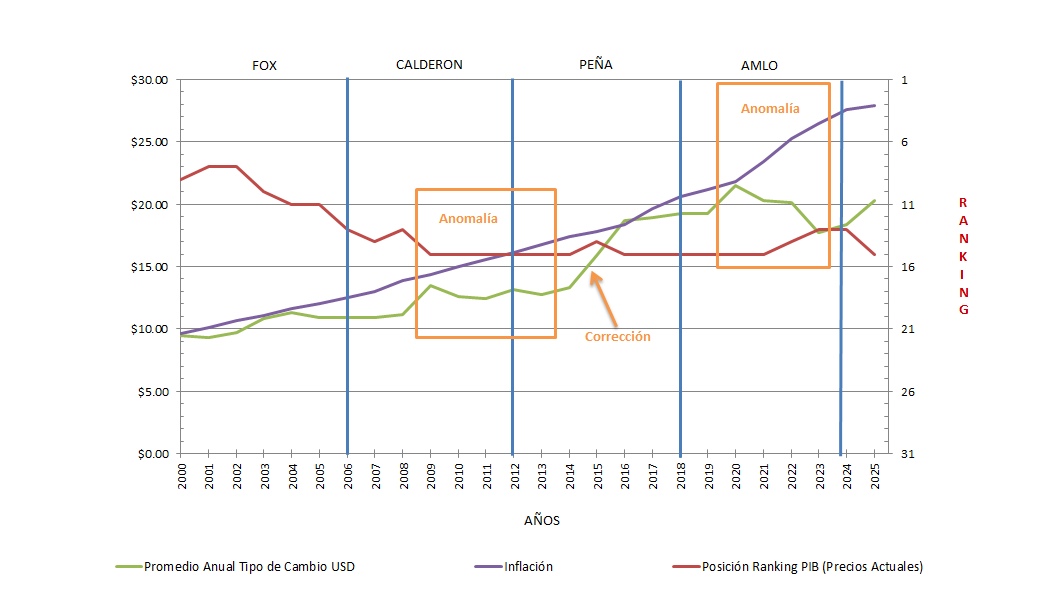
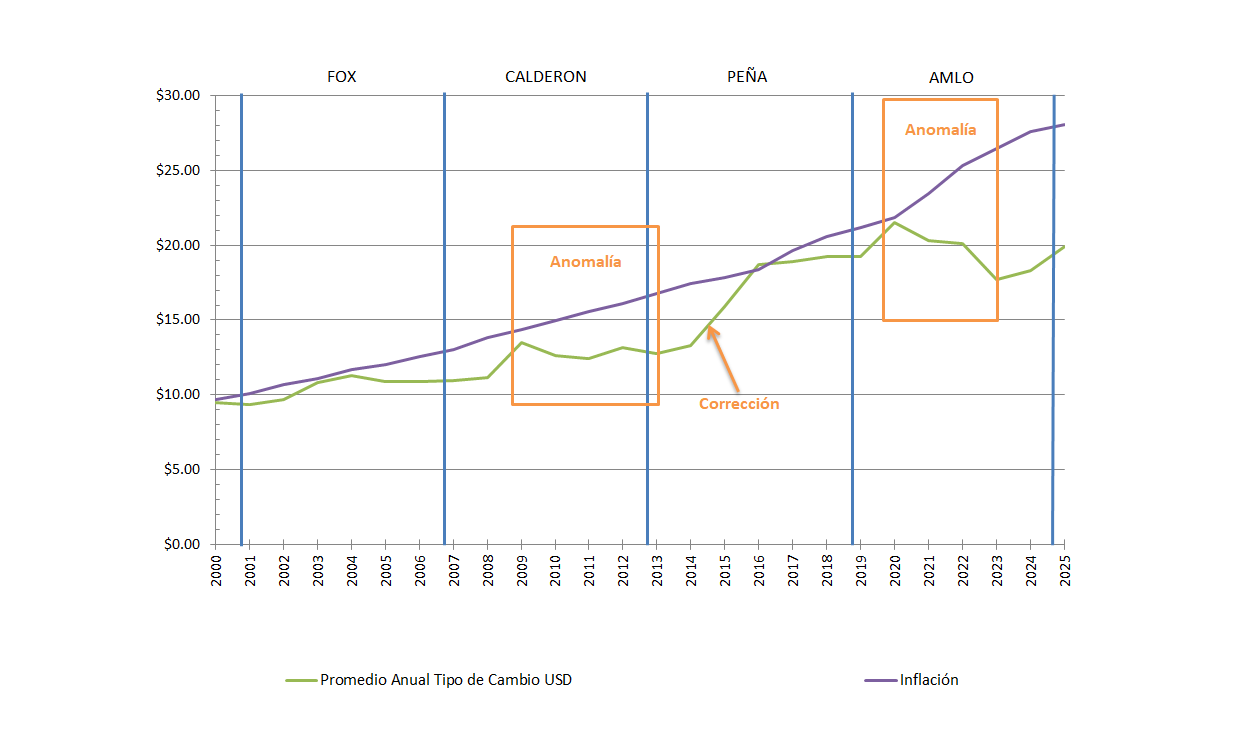
Add files via upload

diff --git a/index.html b/index.html
@@ -51,6 +51,92 @@
             
             <div id="contenedor-publicaciones">
 
+                <div class="publicacion" data-categoria="inflacion">
+                    <!-- H2 movido aquí adentro -->
+                    <h2>Inflación en México: Comparativa por Sexenio</h2>
+
+                    <p class="fecha-publicacion">Actualizado el: 09 de Julio de 2025</p>
+
+                    <p>
+		    La inflación es uno de los indicadores económicos más relevantes para medir el <strong>aumento generalizado y sostenido de los 
+		    precios</strong> de bienes y servicios en México. En términos simples, refleja cómo el dinero se devalúa o pierde su poder de compra con 
+		    el tiempo. Analizar su comportamiento por sexenio permite entender cómo factores internos y crisis internacionales han impactado el 
+		    poder adquisitivo de la población y la estabilidad económica del país. En esta sección encontrarás una comparativa de la 
+		    inflación acumulada durante los últimos gobiernos, acompañada del contexto de los principales eventos globales que influyeron en cada periodo.
+                    </p>
+                    <br>
+                    <table>
+                    <caption>Inflación Acumulada por Sexenio</caption>
+                    <tr>
+                        <th>PRESIDENTE</th>
+                        <th>PERIODO</th>
+                        <th>INFLACION ACUMULADA EN SEXENIO<sup>[1]</sup></th>
+                        <th>CRISIS INTERNACIONALES</th>
+                    </tr>
+                    <tr>
+                        <td>Fox</td>
+                        <td>Dic 2000 - Nov 2006</td>
+                        <td>29.03%</td>
+                        <td>Crisis de las Punto Com (2001)<br>Los USA estuvieron 8 meses en recesión económica</td>
+                    </tr>
+                    <tr>
+                        <td>Calderón</td>
+                        <td>Dic 2006 - Nov 2012</td>
+                        <td>28.22%</td>
+                        <td>Gran Recesión (2008)<br>Los USA estuvieron 19 meses en recesión económica</td>
+                    </tr>
+                    <tr>
+                        <td>Peña</td>
+                        <td>Dic 2012 - Nov 2018</td>
+                        <td>26.98%</td>
+                        <td></td>
+                    </tr>
+                    <tr>
+                        <td>AMLO</td>
+                        <td>Dic 2018 - Sep 2024</td>
+                        <td>32.09%</td>
+                        <td>Pandemia Covid-19 (2020)<br>Los USA estuvieron 3 meses en recesión económica</td>
+                    </tr>
+                    <tr>
+                        <td>Sheinbaum<br>(Parcial: 9 meses de gobierno)</td>
+                        <td>Oct 2024 - Jun 2025</td>
+                        <td>2.61%</td>
+                        <td></td>
+                    </tr>
+                    </table>
+                    <p><sup>[1]</sup>Calculadora Inflación INEGI <a href="https://www.inegi.org.mx/app/indicesdeprecios/CalculadoraInflacion.aspx" target="_blank">https://www.inegi.org.mx/app/indicesdeprecios/CalculadoraInflacion.aspx</a></p>
+                    <p class="back-to-top"><a href="#inicio">↑ Volver al inicio</a></p>
+
+<hr>
+<h3 id="anomalia">Análisis: El Desacoplamiento entre el Tipo de Cambio y la Inflación</h3>
+<p>
+El siguiente gráfico ilustra una divergencia notable que comenzó alrededor de 2021: mientras la inflación acumulada (línea morada) mantenía su 
+tendencia alcista, el tipo de cambio promedio (línea verde) comenzó a apreciarse, un fenómeno que se conoció popularmente como el "Super Peso".
+</p>
+<p>
+Este desacoplamiento no es inédito. Se observó un patrón similar entre 2009 y 2013, un periodo que también mostró un peso relativamente fuerte frente a 
+una inflación creciente. Como muestra la gráfica, aquel periodo fue seguido por una importante "corrección" o depreciación del peso, que alcanzó casi el 
+50% en los años siguientes. La historia sugiere que las divergencias prolongadas entre estos dos indicadores tienden a resolverse eventualmente, a 
+menudo con ajustes abruptos en el tipo de cambio.
+</p>
+<p>
+Esta distorsión del tipo de cambio también generó una percepción engañosa del crecimiento económico. Entre 2022 y 2023, medios y figuras políticas celebraron que 
+México se había convertido en la "economía número 12 del mundo" basándose en el PIB nominal medido en dólares. Sin embargo, este aparente ascenso fue 
+un espejismo causado por la fortaleza artificial del peso. Una métrica más fiable, el <strong>PIB por Paridad de Poder de Compra (PPC)</strong>, que ajusta las 
+diferencias en el costo de vida y anula las distorsiones cambiarias, mostró que México no mejoró su posición en el ranking mundial durante ese mismo 
+periodo. El FMI y el Banco Mundial utilizan el PPC precisamente para realizar comparaciones internacionales más justas.
+</p>
+<p>
+Si bien un tipo de cambio fuerte puede beneficiar temporalmente a los consumidores de bienes importados, presenta riesgos significativos para la 
+economía en general. Un "dólar barato" reduce la competitividad de las exportaciones mexicanas, encarece el turismo extranjero en el país y disminuye el 
+valor en pesos de las remesas que reciben millones de familias. Por el contrario, una moneda excesivamente débil erosiona el poder adquisitivo. El ideal no es 
+un tipo de cambio artificialmente "barato" o "caro", sino uno estable y competitivo que refleje los fundamentales económicos del país.
+</p>
+<img src="Tipo_Cambio_Inflacion.png" alt="Gráfico que muestra la anomalía entre el tipo de cambio USD/MXN y la inflación en México" width="100%" height="">
+<p class="back-to-top"><a href="#inicio">↑ Volver al inicio</a></p>
+<hr>
+                </div>
+
 <div class="publicacion" data-categoria="empleo" id="empleo">
     <h2>Empleo y Salario Mínimo en México por Sexenio</h2>
 
@@ -283,63 +369,6 @@ NOTA: Los ingresos aquí estimados no incluyen costos de extracción ni de expor
                     <p class="back-to-top"><a href="#inicio">↑ Volver al inicio</a></p>
                     <br>
 		</div>
-
-                <div class="publicacion" data-categoria="inflacion">
-                    <!-- H2 movido aquí adentro -->
-                    <h2>Inflación en México: Comparativa por Sexenio</h2>
-
-                    <p class="fecha-publicacion">Actualizado el: 20 de Junio de 2025</p>
-
-                    <p>
-		    La inflación es uno de los indicadores económicos más relevantes para medir el <strong>aumento generalizado y sostenido de los 
-		    precios</strong> de bienes y servicios en México. En términos simples, refleja cómo el dinero se devalúa o pierde su poder de compra con 
-		    el tiempo. Analizar su comportamiento por sexenio permite entender cómo factores internos y crisis internacionales han impactado el 
-		    poder adquisitivo de la población y la estabilidad económica del país. En esta sección encontrarás una comparativa de la 
-		    inflación acumulada durante los últimos gobiernos, acompañada del contexto de los principales eventos globales que influyeron en cada periodo.
-                    </p>
-                    <br>
-                    <table>
-                    <caption>Inflación Acumulada por Sexenio</caption>
-                    <tr>
-                        <th>PRESIDENTE</th>
-                        <th>PERIODO</th>
-                        <th>INFLACION ACUMULADA EN SEXENIO<sup>[1]</sup></th>
-                        <th>CRISIS INTERNACIONALES</th>
-                    </tr>
-                    <tr>
-                        <td>Fox</td>
-                        <td>Dic 2000 - Nov 2006</td>
-                        <td>29.03%</td>
-                        <td>Crisis de las Punto Com (2001)<br>Los USA estuvieron 8 meses en recesión económica</td>
-                    </tr>
-                    <tr>
-                        <td>Calderón</td>
-                        <td>Dic 2006 - Nov 2012</td>
-                        <td>28.22%</td>
-                        <td>Gran Recesión (2008)<br>Los USA estuvieron 19 meses en recesión económica</td>
-                    </tr>
-                    <tr>
-                        <td>Peña</td>
-                        <td>Dic 2012 - Nov 2018</td>
-                        <td>26.98%</td>
-                        <td></td>
-                    </tr>
-                    <tr>
-                        <td>AMLO</td>
-                        <td>Dic 2018 - Sep 2024</td>
-                        <td>32.09%</td>
-                        <td>Pandemia Covid-19 (2020)<br>Los USA estuvieron 3 meses en recesión económica</td>
-                    </tr>
-                    <tr>
-                        <td>Sheinbaum<br>(En 8 meses de gobierno)</td>
-                        <td>Oct 2024 - May 2025</td>
-                        <td>2.33%</td>
-                        <td></td>
-                    </tr>
-                    </table>
-                    <p><sup>[1]</sup>Calculadora Inflación INEGI <a href="https://www.inegi.org.mx/app/indicesdeprecios/CalculadoraInflacion.aspx" target="_blank">https://www.inegi.org.mx/app/indicesdeprecios/CalculadoraInflacion.aspx</a></p>
-                    <p class="back-to-top"><a href="#inicio">↑ Volver al inicio</a></p>
-                </div>
 
                 <div class="publicacion" data-categoria="pobreza">
                     <!-- Título ahora es H2 para correcta jerarquía -->
@@ -660,25 +689,6 @@ NOTA: Los ingresos aquí estimados no incluyen costos de extracción ni de expor
                     </p>
                     <p class="back-to-top"><a href="#inicio">↑ Volver al inicio</a></p>
                     <br>
-                    <h3 id="anomalia">Análisis: La Anomalía del "Super Peso" vs. la Inflación</h3>
-                    <p>Al graficar los datos de la tabla anterior se puede notar que a partir del año 2021 se desacopló la tendencia de la Inflación (Línea Morada) 
-                    y la tendencia del Tipo de Cambio del dólar (Línea Verde). Se observó un patrón similar entre 2009 y 2013, periodo que antecedió a una corrección del tipo de cambio 
-                    de casi 50%. 
-                    </p>
-                    <p>También se puede apreciar una aparente mejora en el Ranking Mundial del PIB de 2022 a 2023 (Línea Roja), que en los medios de comunicación y políticos  
-                    presumieron alegremente que "la economia de México ya era la número 12 del Mundo", pero esa situación fue producto del comportamiento 
-                    anómalo del Tipo de Cambio del dólar, y que se puede corroborar en la tabla <a href="#rankingpib">Ranking Mundial PIB México según el FMI</a> con el ranking 
-                    calculado por Paridad del Poder de Compra (Purchasing Power Parity) donde nunca se reportó mejora alguna durante ese periodo. Es importante señalar que el 
-                    Purchasing Power Parity es un método de cálculo que se emplea para evitar la distorsión que genera la manipulación que hacen los gobiernos de la paridad de
-                    su moneda con respecto al dólar. 
-                    </p>
-                    <p>DATO CURIOSO: Aunque popularmente se crea que tener un dólar barato es bueno (el llamado Super Peso), la realidad es que no lo es tanto, un dólar 
-                    barato daña las exportaciones, de hecho, China mantiene contrariamente su moneda barata para impulsar sus exportaciones, pero una moneda barata tampoco es 
-                    conveniente porque daña el poder adquisitivo de los consumidores nacionales. Lo mejor es no manipular el Tipo de Cambio, las divisas no deben estar 
-                    baratas ni caras.
-                    </p>
-                    <img src="Tipo_Cambio_Inflacion.png" alt="Gráfico que muestra la anomalía entre el tipo de cambio USD/MXN y la inflación en México" width="100%" height="">
-                    <p class="back-to-top"><a href="#inicio">↑ Volver al inicio</a></p>
                 </div>
                 
                 <div class="publicacion" data-categoria="ied">
